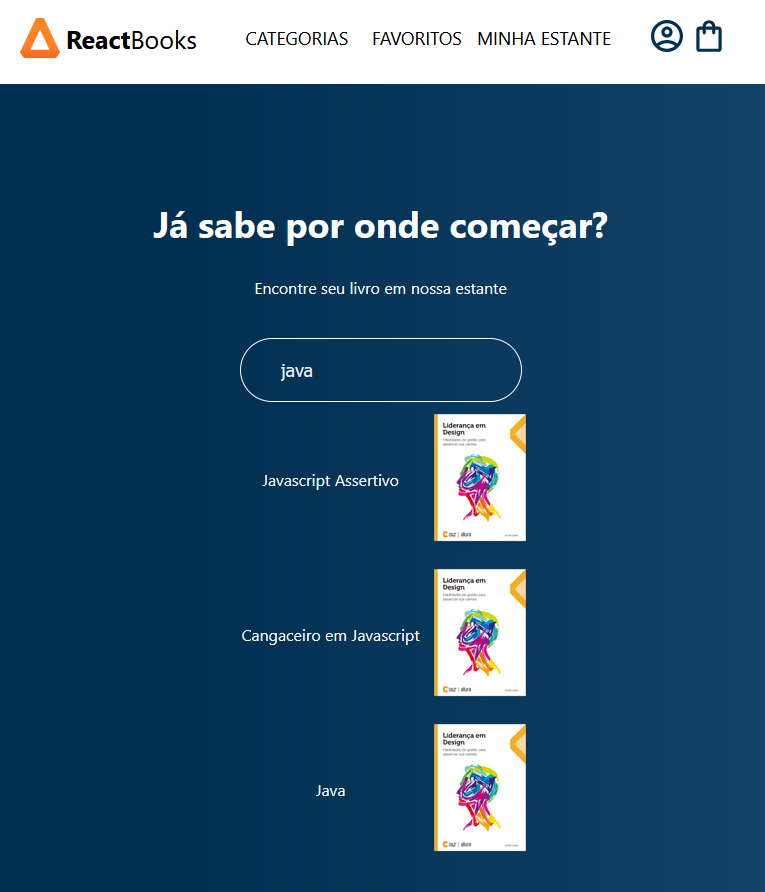
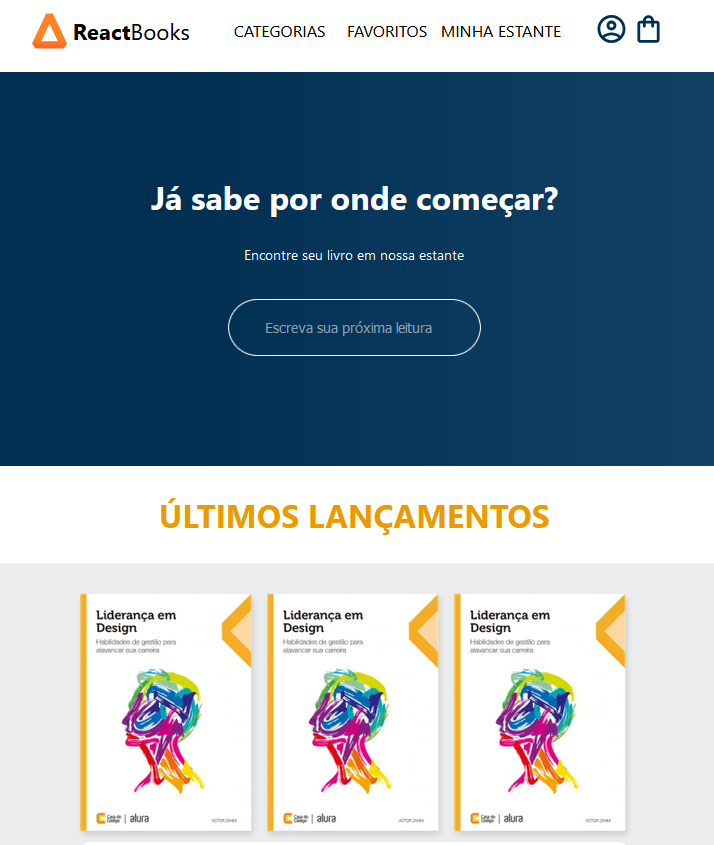
Update image and Card recomenda done

diff --git a/react-books/src/components/CardRecomenda/index.jsx b/react-books/src/components/CardRecomenda/index.jsx
@@ -1,0 +1,63 @@
+import styled from "styled-components"
+import { Titulo } from "../Titulo"
+
+const Card = styled.div`
+    align-items: center;
+    background-color: #FFF;
+    box-shadow: 0px 4px 4px rgba(0, 0, 0, 0.25);
+    border-radius: 10px;
+    display: flex;
+    margin: 0 auto;
+    max-width: 570px;
+    padding: 25px 20px;
+    justify-content: space-around;
+    width: 100%;  
+`
+
+const Botao = styled.button`
+    background-color: #EB9B00;
+    color: #FFF;
+    padding: 10px 0px;
+    font-size: 16px;
+    border: none;
+    font-weight: 900;
+    display: block;
+    text-align: center;
+    width: 150px;
+    &:hover {
+        cursor: pointer;
+    }
+`
+
+const Descricao = styled.p`
+    max-width: 300px;
+`
+
+const Subtitulo = styled.h4`
+    color: #002F52;
+    font-size: 18px;
+    font-weight: bold;
+    margin: 15px 0;
+`
+
+const ImgLivro = styled.img`
+    width: 150px;
+`
+
+function CardRecomenda({titulo, subtitulo, descricao, imagem}){
+    return(
+        <Card>
+        <div>
+            <Titulo tamanhoFonte="16px" cor="#EB9B00" alinhamento="left">{titulo}</Titulo>
+            <Subtitulo>{subtitulo}</Subtitulo>
+            <Descricao>{descricao}</Descricao>
+        </div>
+        <div>
+            <ImgLivro src={imagem}/>
+            <Botao>Saiba mais</Botao>
+        </div>
+    </Card> 
+    )
+}
+
+export default CardRecomenda

diff --git a/react-books/src/components/UltimosLancamentos/index.jsx b/react-books/src/components/UltimosLancamentos/index.jsx
@@ -1,4 +1,6 @@
 import styled from 'styled-components'
+import imagemLivro from '../../assets/livro2.png'
+import CardRecomenda from '../CardRecomenda'
 import { Titulo } from '../Titulo'
 import { livros } from './dadosUltimosLancamentos'
 
@@ -31,12 +33,12 @@ function UltimosLancamentos(){
                 ))}
             </NovosLivrosContainer>
 
-            <div>
-                <h3>Talvez você se interesse por ...</h3>
-                <h4>Angular 17</h4>
-                <p>Construindo uma aplicação integrada com o Google</p>
-                <button>Saiba mais</button>
-            </div>
+            <CardRecomenda
+                titulo="Talvez você se interesse por..."
+                subtitulo="Angular 17"
+                descricao="Construindo uma aplicação integrada com o Google"
+                imagem={imagemLivro}
+            />
         </UltimosLancamentosContainer>
     )
 }
